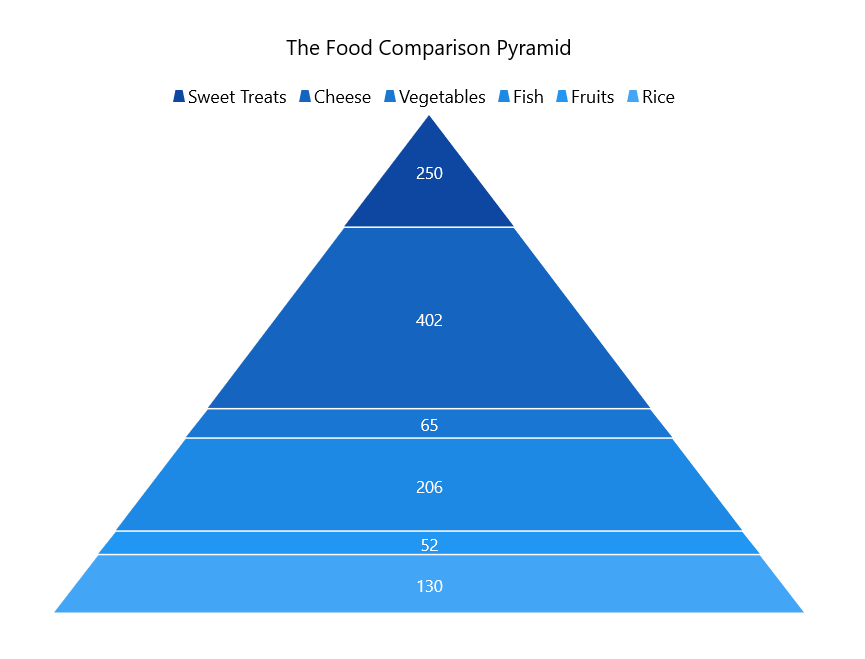
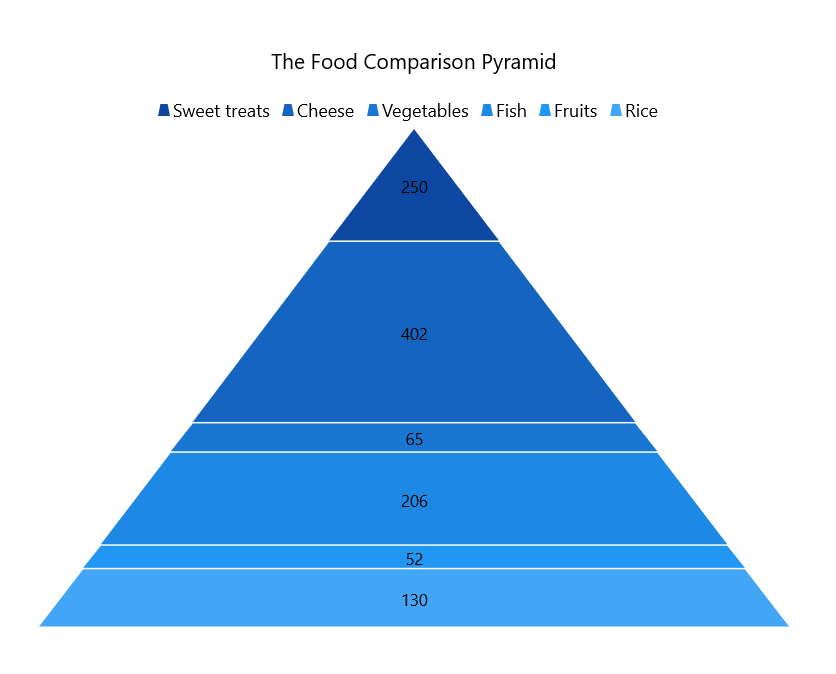
Getting started Image changed

diff --git a/winui/Pyramid-Chart/Getting-Started.md b/winui/Pyramid-Chart/Getting-Started.md
@@ -88,7 +88,7 @@ public class ChartViewModel
     {
         Data = new List<Model>()
         {
-            new Model(){FoodName = "Sweet Treats", Calories = 250},
+            new Model(){FoodName = "Sweet treats", Calories = 250},
             new Model(){FoodName = "Cheese", Calories = 402},
             new Model(){FoodName = "Vegetables", Calories = 65},
             new Model(){FoodName = "Fish", Calories = 206},
